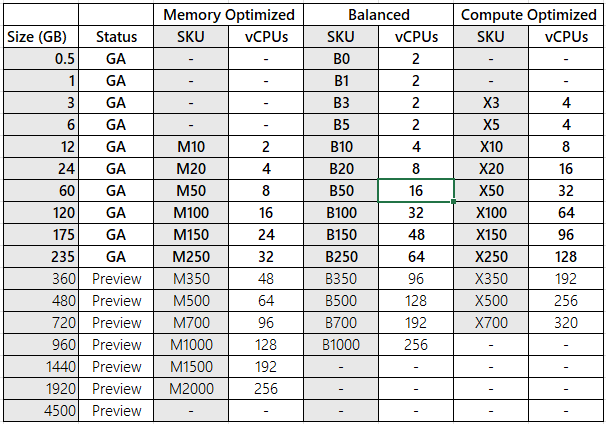
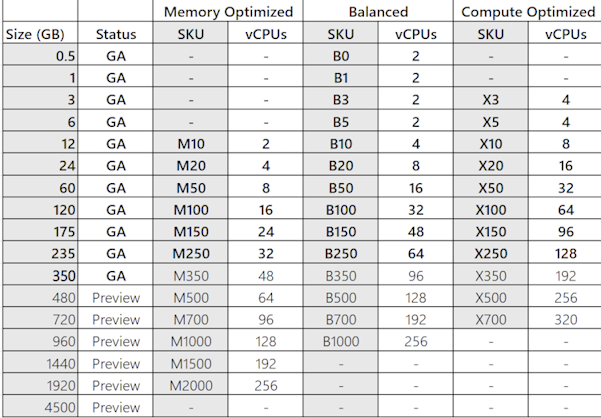
[AMR] 350 SKU GA

diff --git a/articles/redis/whats-new.md b/articles/redis/whats-new.md
@@ -1,7 +1,7 @@
 ---
 title: What's new in Azure Managed Redis
 description: Recent updates for Azure Managed Redis
-ms.date: 11/17/2025
+ms.date: 03/27/2026
 ms.topic: whats-new
 ms.custom:
   - references_regions
@@ -13,6 +13,12 @@ appliesto:
 # What's New in Azure Managed Redis
 
 Find out what's new in Azure Managed Redis.
+
+## April 2026
+
+### General Availability for M/B/X 350 SKUs (350 GB)
+
+Azure Managed Redis Memory Optimized M350, Balanced B350, and Compute Optimized X350 SKUs are now generally available (GA). The memory size of this SKU has changed to 350 GB from 360 GB. For a complete list of the status of SKUs, see [Tiers and SKUs at a glance](overview.md#tiers-and-skus-at-a-glance).
 
 ## November 2025
 

diff --git a/articles/redis/overview.md b/articles/redis/overview.md
@@ -133,7 +133,7 @@ This table shows the max connections by tier and memory size in the Memory Optim
 | 120       | 150,000             | 200,000  | 200,000              |
 | 175       | 200,000             | 200,000  | 200,000              |
 | 235       | 200,000             | 200,000  | 200,000              |
-| 360 *     | 200,000             | 200,000  | 200,000              |
+| 350      | 200,000             | 200,000  | 200,000              |
 | 480 *     | 200,000             | 200,000  | 200,000              |
 | 720 *     | 200,000             | 200,000  | 200,000              |
 | 960 *     | 200,000             | 200,000  | -                    |

diff --git a/articles/redis/includes/tier-preview.md b/articles/redis/includes/tier-preview.md
@@ -6,6 +6,6 @@ ms.custom:
 ---
 
 > [!IMPORTANT]
-> All in-memory tiers that use over 235 GB of storage are in Public Preview, including Memory Optimized M350 and higher; Balanced B350 and higher; and Compute Optimized X350 and higher. All these tiers and higher are in Public Preview.
+> All in-memory tiers that use over 350 GB of storage are in Public Preview, including Memory Optimized M500 and higher; Balanced B500 and higher; and Compute Optimized X500 and higher. All these tiers and higher are in Public Preview.
 >
 > All Flash Optimized tiers are in Public Preview.
